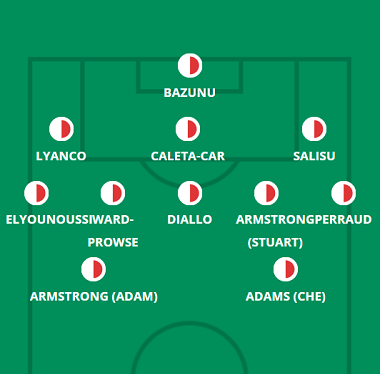
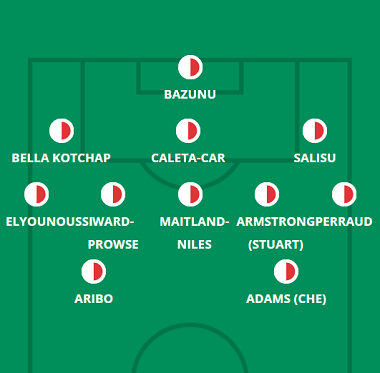
15° Rodada

diff --git a/south.html b/south.html
@@ -68,7 +68,7 @@
             <hgroup>
                 <h1> Provável Escalação</h1>
                 <h2 class="direita"> por FabioVascão </h2>
-                <h3 class="direita"> Atualizado em 28/Outubro/2022 </h3>
+                <h3 class="direita"> Atualizado em 04/Novembro/2022 </h3>
             </hgroup>
     
             <h2 class="time"> <img src="_fotos/_logos/logosouth.png" />Southampton</h2>
@@ -77,9 +77,9 @@
                     <img src="_fotos/_dinamicas/south.png" />
                 </figure>
             </aside>
-                <div class="escalacao"><h2 class="titulo">Ultimas Notícias</h2> <h4><p>Kyle Walker-Peters (músculo posterior da coxa), Tino Livramento (joelho) e Armel Bella-Kotchap (ombro) permanecem de fora, mas o emprestado Ainsley Maitland-Niles está disponível neste fim de semana depois de ser inelegível para enfrentar seu clube-mãe no último domingo. Romeo Lavia (músculo) está de volta aos treinos e também pode entrar na disputa, embora Ralph Hasenhuttl tenha dito no pré-jogo de quinta-feira que "não teve o OK até agora dos fisioterapeutas" para incluir o meio-campista no elenco da rodada. O Saints começou em um 4-4-2 contra os Gunners, mas rapidamente mudou para um sistema de ala antes de resgatar um ponto, com a formação lembrando um 3-3-4 agressivo às vezes. Hasenhuttl certamente ficará com uma equipe muito semelhante, independentemente das táticas, mas ele tem Maitland-Niles de volta, com o emprestado do Arsenal sendo considerado para a marcação de Zaha, já que o departamento de lateral-direito está com poucas opções. Che Adams, o homem do jogo na 12° Rodada, também está pressionando por um recall às custas de Joe Aribo ou Adam Armstrong, tendo sido nomeado apenas no banco no último domingo devido a um aperto no tendão.</p></h4><br>
-                    <h4><strong>Jogadores fora da próxima partida:</strong> Bella Kotchap, Walker-Peters, Livramento e Romeu</h4><br><br>
-                    <h4><strong>Jogadores dúvidas:</strong> Lavia</h4>
+                <div class="escalacao"><h2 class="titulo">Ultimas Notícias</h2> <h4><p>Armel Bella-Kotchap e Roméo Lavia estão de volta à disputa antes do confronto de Southampton com o Newcastle no domingo, embora Lavia tenha sofrido um pequeno problema no joelho em seu recente retorno aos treinos depois de se recuperar de um problema muscular. Kyle Walker-Peters (músculo posterior da coxa) e Tino Livramento (joelho) permanecem de fora e Moussa Djenepo não vai jogar por motivos pessoais, enquanto Stuart Armstrong (pancada) está "lutando um pouco", mas deve ficar bem. Enquanto Ralph Hasenhuttl parecia cauteloso em jogar Lavia de volta depois de dois meses afastado, Bella-Kotchap está fora há apenas três semanas - para que o saldo de gols possa retornar rapidamente ao time. Ainsley Maitland-Niles também parece bom para começar este fim de semana, com sua entrada para o pobre Ibrahima Diallo no intervalo contra o Crystal Palace provocando uma exibição muito melhor. Com Hasenhuttl dizendo na sexta-feira que Sekou Mara "não estava no nível" para começar no time titular, é realmente apenas Adam Armstrong que pode invadir a festa na frente contra seu antigo clube Newcastle. Os outros nomes no banco no fim de semana passado, Theo Walcott, Sam Edozie, Juan Larios e Lewis Payne, têm apenas um início de liga entre eles durante toda a temporada.</p></h4><br>
+                    <h4><strong>Jogadores fora da próxima partida:</strong> Djenepo, Walker-Peters e Livramento</h4><br><br>
+                    <h4><strong>Jogadores dúvidas:</strong> Armstrong (Stuart) e Lavia</h4>
                 </div> 
         </header>
         </article>

diff --git a/index.html b/index.html
@@ -39,22 +39,22 @@
         <article>
         <header id="noticia"> 
             <hgroup>
-                <h1> Escalação da  14° Rodada </h1>
+                <h1> Escalação da  15° Rodada </h1>
                 <h2> por FabioVascão </h2>
-                <h3> Atualizado em 28/Outubro/2022 </h3>
+                <h3> Atualizado em 04/Novembro/2022 </h3>
             </hgroup>
-            <h2 class="titulo">  14° Rodada da Premier League - Time do Canal </h2>
+            <h2 class="titulo">  15° Rodada da Premier League - Time do Canal </h2>
                 <div class="imagem">
                     <picture> 
-                        <img src="_fotos/_noticias/timecanal14g.jpg" alt="Escalação da 14° Rodada do Fantasy da Premier League" style="width:99.8%;">   
+                        <img src="_fotos/_noticias/timecanal15g.jpg" alt="Escalação da 15° Rodada do Fantasy da Premier League" style="width:99.8%;">   
                     </picture>
                 </div>
-            <h4><p><strong>Escalação:</strong> Guaita, Trippier, Neco Willians, Cancelo, Andreas, Almirón, Foden, Salah, Wilson, Kanee Haaland(C).</p></h4></br>
-            <h4><p><strong>Banco:</strong> Ward, Reed, Mings e Justin.</p></h4>
+            <h4><p><strong>Escalação:</strong> Ward, Justin, Neco Williams, Cancelo, Trippier, Almirón, Salah, Bernardo Silva, Wilson, Kane e Haaland(C).</p></h4></br>
+            <h4><p><strong>Banco:</strong> Guaita, Mings, Andreas e Reed.</p></h4>
 
-            <h2 class="titulo"> Dicas para 14° Rodada </h2>  
+            <h2 class="titulo"> Dicas para 15° Rodada </h2>  
             <div class="video"> 
-                <iframe width="95%" height="315" src="https://www.youtube.com/embed/gKEj42kN90w" title="YouTube video player" frameborder="0" allow="accelerometer; autoplay; clipboard-write; encrypted-media; gyroscope; picture-in-picture" allowfullscreen></iframe> 
+                <iframe width="95%" height="315" src="https://www.youtube.com/embed/mma5a-SZ9hE" title="YouTube video player" frameborder="0" allow="accelerometer; autoplay; clipboard-write; encrypted-media; gyroscope; picture-in-picture" allowfullscreen></iframe>
             </div>
         </header>
         </article>

diff --git a/noticias.html b/noticias.html
@@ -40,6 +40,20 @@
         <article>
         <header id="noticia"> 
             <hgroup>
+                <h1> Escalação da  15° Rodada </h1>
+                <h2> por FabioVascão </h2>
+                <h3> Atualizado em 04/Novembro/2022 </h3>
+            </hgroup>
+            <h2 class="titulo">  15° Rodada da Premier League - Time do Canal </h2>
+                <div class="imagem">
+                    <picture> 
+                        <img src="_fotos/_noticias/timecanal15g.jpg" alt="Escalação da 15° Rodada do Fantasy da Premier League" style="width:99.8%;">   
+                    </picture>
+                </div>
+            <h4><p><strong>Escalação:</strong> Ward, Justin, Neco Williams, Cancelo, Trippier, Almirón, Salah, Bernardo Silva, Wilson, Kane e Haaland(C).</p></h4></br>
+            <h4><p><strong>Banco:</strong> Guaita, Mings, Andreas e Reed.</p></h4>
+
+            <hgroup>
                 <h1> Escalação da  14° Rodada </h1>
                 <h2> por FabioVascão </h2>
                 <h3> Atualizado em 28/Outubro/2022 </h3>
